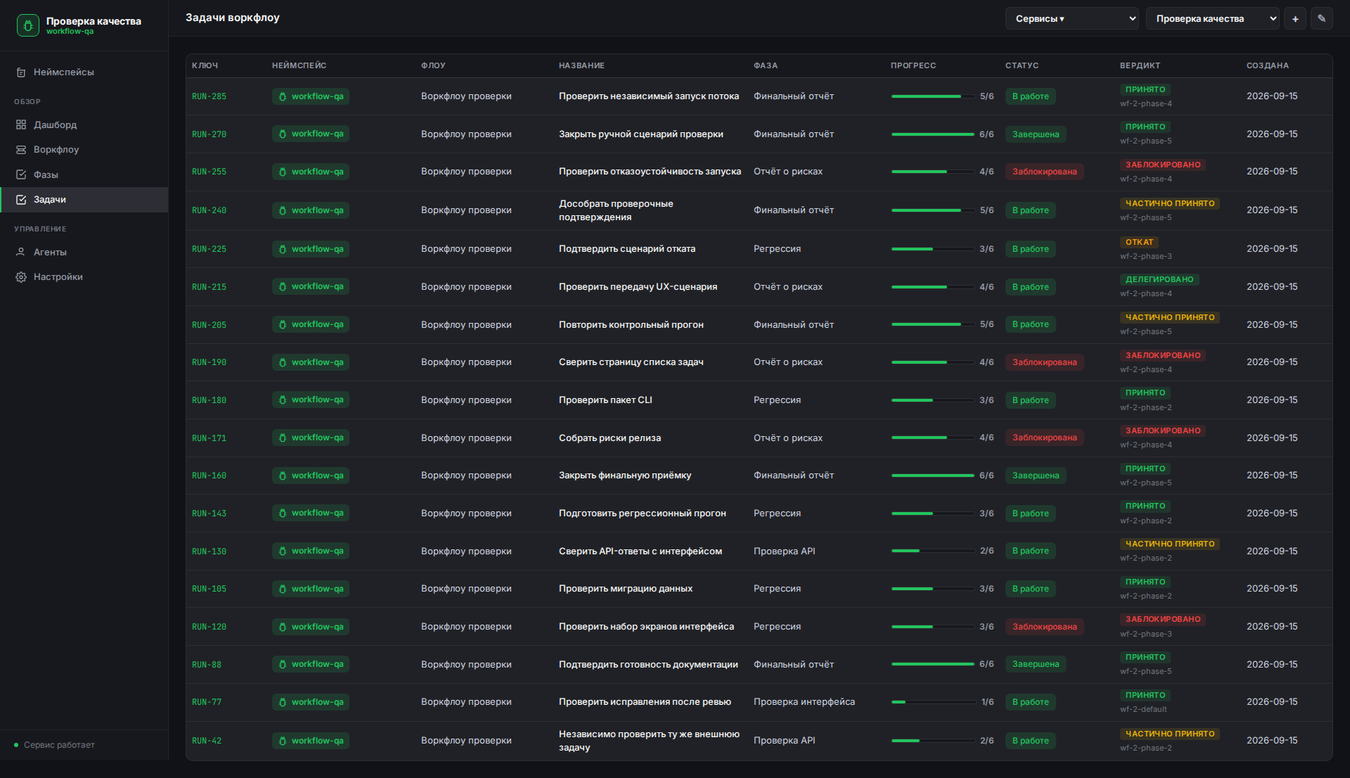
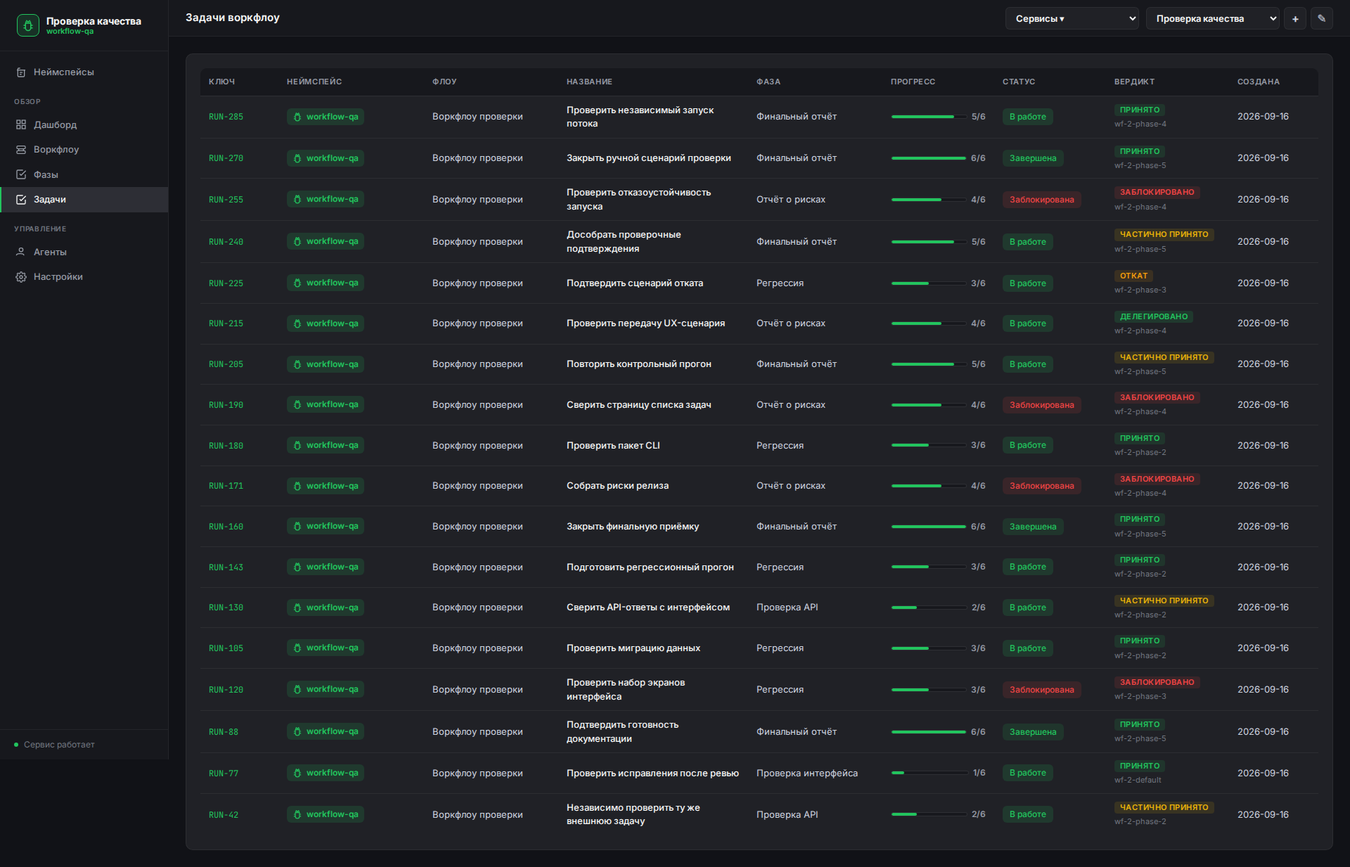
fix(ui): закрыть итоговые UX и runtime review findings
Исправлены Compose-env контракты runtime bridge, evaluator и каталога
сервисов. UI задач на мобильном уплотнён без скрытия данных; история
проверок сворачивает старые записи, фазы получили понятные touch controls,
инструкции без контекста показывают guidance state.

README/screenshots и архитектура синхронизированы; добавлены регрессии CLI
автосоздания, read-only task API/UI и Compose конфигурации.

diff --git a/project_workflow/interfaces/ui/templates/task_detail.html b/project_workflow/interfaces/ui/templates/task_detail.html
@@ -29,7 +29,10 @@
 .summary-progress span{display:block;height:100%;background:var(--accent);border-radius:inherit}
 .summary-progress span.done{background:var(--green)}
 
-.detail-section{margin-top:30px}
+.detail-jump-nav{display:flex;gap:8px;flex-wrap:wrap;margin:-8px 0 20px}
+.detail-jump-nav a{color:var(--text-secondary);background:var(--surface);border:1px solid var(--border);border-radius:999px;padding:6px 10px;font-size:12px;font-weight:600;text-decoration:none}
+.detail-jump-nav a:hover{color:var(--text);border-color:var(--accent);text-decoration:none}
+.detail-section{margin-top:30px;scroll-margin-top:76px}
 .phase-history{display:flex;flex-direction:column}
 .phase-history-step{display:grid;grid-template-columns:40px minmax(0,1fr);column-gap:14px;align-items:stretch;min-width:0}
 .phase-rail{position:relative;min-height:100%;display:flex;justify-content:center;align-items:center}
@@ -57,12 +60,19 @@
 
 .check-activity{display:flex;flex-direction:column}
 .activity-event{display:grid;grid-template-columns:30px minmax(0,1fr);column-gap:12px;align-items:stretch;min-width:0}
-.activity-rail{position:relative;display:flex;justify-content:center;padding-top:4px}
+.activity-rail{position:relative;grid-column:1;grid-row:1 / span 2;display:flex;justify-content:center;padding-top:4px}
 .activity-rail::after{content:"";position:absolute;top:16px;bottom:0;left:50%;width:1px;background:var(--border-strong)}
 .activity-event:last-child .activity-rail::after{display:none}
 .activity-node{position:relative;z-index:1;width:11px;height:11px;border-radius:50%;margin-top:1px;background:var(--text-dim);box-shadow:0 0 0 4px var(--bg)}
 .activity-node.pass{background:var(--green)}.activity-node.partial{background:var(--yellow)}.activity-node.blocked{background:var(--red)}.activity-node.rollback{background:var(--orange)}.activity-node.delegate{background:var(--accent)}
 .activity-content{padding:0 0 25px;min-width:0}
+.activity-event-summary{grid-column:2;grid-row:1;cursor:pointer;list-style:none}
+.activity-event-summary::-webkit-details-marker{display:none}
+.activity-event-summary::after{content:'Развернуть';margin-left:auto;color:var(--text-muted);font-size:11px;font-weight:600}
+.activity-event[open] .activity-event-summary::after{content:'Свернуть'}
+.activity-event-summary .activity-header{margin-bottom:0}
+.activity-event[open] .activity-event-summary{margin-bottom:10px}
+.activity-event[open] .activity-content{padding-top:0}
 .activity-header{display:flex;align-items:center;gap:8px;flex-wrap:wrap;margin-bottom:10px;min-height:18px}
 .activity-title{font-size:14px;font-weight:600;color:var(--text)}
 .activity-time{margin-left:auto;font-size:11px;color:var(--text-dim)}
@@ -91,7 +101,8 @@
 
 @media(max-width:800px){.summary-bar{grid-template-columns:1fr}.contract-grid{grid-template-columns:1fr}.parallel-grid,.contract-participants{grid-template-columns:1fr}}
 @media(max-width:480px){
-  .detail-header h1{font-size:21px}.detail-meta{display:grid;gap:7px}.phase-history-step{grid-template-columns:30px minmax(0,1fr);column-gap:8px}
+  .detail-header h1{font-size:21px}.detail-meta{display:grid;gap:7px}.detail-jump-nav{position:sticky;top:52px;z-index:4;margin:0 -4px 16px;padding:8px 4px;background:var(--bg);overflow-x:auto;flex-wrap:nowrap}.detail-jump-nav a{white-space:nowrap}
+  .phase-history-step{grid-template-columns:30px minmax(0,1fr);column-gap:8px}
   .phase-card{padding:11px}.phase-status{width:100%;margin-left:0}.activity-event{grid-template-columns:20px minmax(0,1fr);column-gap:7px}.activity-time{width:100%;margin-left:0}
 }
 {% endblock %}
@@ -144,7 +155,7 @@
   </div>
 </section>
 
-<div class="summary-bar">
+<div class="summary-bar" id="task-summary">
   <div class="summary-item {% if task.status == 'done' %}done{% endif %}">
     <div class="summary-label">{{ 'Завершённая фаза' if task.status == 'done' else 'Текущая фаза' }}</div>
     <div class="summary-value">{{ current_phase_name or '—' }}</div>
@@ -161,6 +172,12 @@
     <div class="summary-progress"><span class="{% if cycles_done >= cycles_total and cycles_total %}done{% endif %}" style="width:{{ (cycles_done / cycles_total * 100) if cycles_total else 0 }}%"></span></div>
   </div>
 </div>
+
+<nav class="detail-jump-nav" aria-label="Навигация по задаче">
+  <a href="#task-summary">Состояние</a>
+  <a href="#phase-history-title">Фазы</a>
+  <a href="#check-history-title">Проверки · {{ step_history | length }}</a>
+</nav>
 
 <section class="detail-section" aria-labelledby="phase-history-title">
   <h2 class="section-heading" id="phase-history-title">История фаз</h2>
@@ -198,16 +215,18 @@
   <h2 class="section-heading" id="check-history-title">История проверок</h2>
   <div class="check-activity">
     {% for run in step_history %}
-    <article class="activity-event" data-check-run="{{ loop.index }}">
+    <details class="activity-event" data-check-run="{{ loop.index }}"{% if loop.last %} open{% endif %}>
       <div class="activity-rail"><span class="activity-node {{ run.verdict }}" aria-hidden="true"></span></div>
       <div class="activity-content">
-        <header class="activity-header">
-          <span class="activity-title">Цикл {{ loop.index }}</span>
-          <span class="phase-code">{{ run.phase_code }}</span>
-          {% if run.phase_name and run.phase_name != run.phase_code %}<span class="activity-title">{{ run.phase_name }}</span>{% endif %}
-          <span class="verdict-chip verdict-{{ run.verdict }}">{{ run.verdict_label }}</span>
-          <time class="activity-time">{{ run.created_at[:16] if run.created_at else '—' }}</time>
-        </header>
+        <summary class="activity-event-summary">
+          <header class="activity-header">
+            <span class="activity-title">Цикл {{ loop.index }}</span>
+            <span class="phase-code">{{ run.phase_code }}</span>
+            {% if run.phase_name and run.phase_name != run.phase_code %}<span class="activity-title">{{ run.phase_name }}</span>{% endif %}
+            <span class="verdict-chip verdict-{{ run.verdict }}">{{ run.verdict_label }}</span>
+            <time class="activity-time">{{ run.created_at[:16] if run.created_at else '—' }}</time>
+          </header>
+        </summary>
 
         {% if run.worker_report %}<div class="dialog-part"><div class="dialog-label">Отчёт исполнителя</div><div class="report-text">{{ run.worker_report }}</div></div>{% endif %}
 
@@ -234,7 +253,7 @@
         <div class="dialog-part"><div class="terminal-card">Воркфлоу завершён</div></div>
         {% endif %}
       </div>
-    </article>
+    </details>
     {% else %}<div class="empty-state">Проверок пока нет.</div>{% endfor %}
   </div>
 </section>

diff --git a/project_workflow/interfaces/ui/templates/tasks.html b/project_workflow/interfaces/ui/templates/tasks.html
@@ -36,12 +36,18 @@
 .progress-inline .bar-fill{display:block;height:100%;background:var(--accent);border-radius:inherit;min-width:2px;transition:width .3s}
 .progress-inline .bar-fill.done{background:var(--green)}
 .progress-inline .bar-fill.zero{background:transparent;min-width:0}
-.task-card{background:var(--surface);border:1px solid var(--border);border-radius:8px;padding:14px 16px;margin-top:12px}
-.task-card .row{display:flex;justify-content:space-between;align-items:center;margin-bottom:6px;gap:8px;flex-wrap:wrap}
+.task-card{background:var(--surface);border:1px solid var(--border);border-radius:8px;padding:12px 14px;margin-top:8px}
+.task-card .row{display:flex;justify-content:space-between;align-items:center;margin-bottom:5px;gap:8px;flex-wrap:wrap}
 .task-card .row:last-child{margin-bottom:0}
 .task-card .task-key{font-family:'JetBrains Mono',monospace;font-size:12px;color:var(--accent)}
 .task-card .label{font-size:11px;color:var(--text-dim);text-transform:uppercase;letter-spacing:0.05em}
 .task-card .value{font-size:13px;color:var(--text-secondary);font-weight:500}
+.task-card-title{margin:7px 0 9px;font-size:14px;color:var(--text);font-weight:600;line-height:1.35}
+.task-card-context{display:grid;grid-template-columns:repeat(2,minmax(0,1fr));gap:6px 12px;border-top:1px solid var(--border);padding-top:8px}
+.task-card-context-item{min-width:0;font-size:12px;line-height:1.35;color:var(--text-secondary);overflow-wrap:anywhere}
+.task-card-context-item strong{color:var(--text-muted);font-weight:600}
+.task-card-context-item.context-wide{grid-column:1 / -1}
+.task-card-context-item.context-wide .context-value{color:var(--text);font-weight:500}
 .verdict-badge{display:inline-flex;align-items:center;gap:4px;padding:2px 8px;border-radius:4px;font-size:11px;font-weight:600;text-transform:uppercase;letter-spacing:0.04em;line-height:1.2;white-space:normal;overflow-wrap:normal}
 .verdict-cell{display:flex;flex-direction:column;align-items:flex-start;gap:3px;min-width:0}
 .verdict-pass{background:var(--green-soft);color:var(--green)}
@@ -139,16 +145,14 @@
       {% endif %}
     </div>
     {% if t.title and t.title != t.task_key %}
-    <div class="row" style="margin-bottom:10px">
-      <span class="task-title" style="font-size:14px">{{ t.title }}</span>
-    </div>
+    <div class="task-card-title">{{ t.title }}</div>
     {% endif %}
-    <div class="row task-card-meta">
-      <div><span class="label">Неймспейс</span><div class="value">{{ t.namespace_cli_command or t.namespace_name }}</div></div>
-      <div><span class="label">Флоу</span><div class="value">{{ t.workflow_name or '—' }}</div></div>
-      <div><span class="label">Фаза</span><div class="value">{{ t.current_phase_name or '—' }}</div></div>
-      <div><span class="label">Прогресс</span><div class="value">{{ t.completed }}/{{ t.total_phases }}</div></div>
-      <div><span class="label">Создана</span><div class="value">{{ t.created_at[:10] if t.created_at else '—' }}</div></div>
+    <div class="task-card-context">
+      <div class="task-card-context-item"><strong>Неймспейс:</strong> {{ t.namespace_cli_command or t.namespace_name }}</div>
+      <div class="task-card-context-item"><strong>Флоу:</strong> {{ t.workflow_name or '—' }}</div>
+      <div class="task-card-context-item"><strong>Фаза:</strong> {{ t.current_phase_name or '—' }}</div>
+      <div class="task-card-context-item"><strong>Прогресс:</strong> {{ t.completed }}/{{ t.total_phases }}</div>
+      <div class="task-card-context-item"><strong>Создана:</strong> {{ t.created_at[:10] if t.created_at else '—' }}</div>
     </div>
   </div>
   {% else %}

diff --git a/project_workflow/interfaces/ui/templates/phases.html b/project_workflow/interfaces/ui/templates/phases.html
@@ -24,12 +24,18 @@
 .timeline-card .timeline-name{padding-right:130px}
 .timeline-card:hover{transform:none}
 .phase-card-actions{position:absolute;right:12px;top:12px;display:flex;gap:6px;z-index:2}
-.phase-card-actions button{width:30px;height:28px;border-radius:6px;border:1px solid var(--border-strong);background:var(--panel);color:var(--text-muted);cursor:pointer;display:flex;align-items:center;justify-content:center;font-size:13px}
+.phase-card-actions button{min-width:36px;height:36px;border-radius:6px;border:1px solid var(--border-strong);background:var(--panel);color:var(--text-muted);cursor:pointer;display:flex;align-items:center;justify-content:center;font-size:12px;font-weight:600}
 .phase-card-actions button:hover:not(:disabled){color:var(--text);border-color:var(--accent);background:var(--surface-hover)}
 .phase-card-actions .phase-delete-btn:hover:not(:disabled){color:var(--red);border-color:var(--red)}
 .phase-card-actions button:disabled{opacity:.3;cursor:not-allowed}
 .execution-row{margin-top:10px;min-height:0}
-.execution-toggle{width:auto!important;padding:0 9px!important;font-size:11px!important}
+.execution-toggle{width:auto!important;padding:0 10px!important;font-size:11px!important}
+.phase-card-actions .move-up-btn,.phase-card-actions .move-down-btn{font-size:0}
+.phase-card-actions .move-up-btn::after{content:'Выше';font-size:11px}
+.phase-card-actions .move-down-btn::after{content:'Ниже';font-size:11px}
+.phase-card-actions .phase-delete-btn{font-size:0}
+.phase-card-actions .phase-delete-btn::after{content:'Удалить';font-size:11px}
+@media(max-width:760px){.phase-card-actions{gap:8px}.phase-card-actions button{min-width:44px;height:44px}.execution-toggle{padding:0 12px!important}}
 .timeline-parallel-group{display:block;border-color:rgba(245,158,11,.58);background:rgba(255,255,255,.012);box-shadow:none;padding:14px}
 .timeline-parallel-header{display:flex;align-items:center;justify-content:space-between;gap:10px;margin-bottom:12px}
 .timeline-parallel-label{border-color:var(--border-strong);background:var(--panel);color:var(--text-muted)}
@@ -62,7 +68,7 @@
     <div class="phase-card-actions" aria-label="Действия фазы">
       <button type="button" class="move-up-btn" onclick="movePhase(this,-1)" title="Поднять выше" aria-label="Поднять фазу выше">↑</button>
       <button type="button" class="move-down-btn" onclick="movePhase(this,1)" title="Опустить ниже" aria-label="Опустить фазу ниже">↓</button>
-      <button type="button" class="execution-toggle" onclick="togglePhaseType(this)" title="Изменить режим выполнения" aria-label="Изменить режим выполнения">{{ 'P' if p.execution_type == 'parallel' else 'S' }}</button>
+      <button type="button" class="execution-toggle" onclick="togglePhaseType(this)" title="Изменить режим выполнения" aria-label="Изменить режим выполнения">{{ 'Параллельно' if p.execution_type == 'parallel' else 'Последовательно' }}</button>
       <button type="button" class="phase-delete-btn" onclick="deletePhase(this)" title="Удалить фазу" aria-label="Удалить фазу"{% if phase_count <= 1 %} disabled{% endif %}>×</button>
     </div>
   </div>

diff --git a/tests/test_docs_quality.py b/tests/test_docs_quality.py
@@ -5,8 +5,8 @@ from pathlib import Path
 
 ROOT = Path(__file__).resolve().parents[1]
 SCREENSHOTS = {
-    "dashboard.png": (1900, 1700),
-    "dashboard-qa.png": (1900, 1700),
+    "dashboard.png": (1900, 1500),
+    "dashboard-qa.png": (1900, 1500),
     "namespaces.png": (1900, 1000),
     "namespace-new.png": (1900, 1000),
     "phases-qa.png": (1900, 1200),
@@ -16,10 +16,10 @@ SCREENSHOTS = {
     "instructions.png": (1900, 1000),
     "agents.png": (1900, 1000),
     "phases.png": (1900, 3000),
-    "task-detail-dev.png": (1900, 3500),
-    "task-detail-qa.png": (1900, 2200),
+    "task-detail-dev.png": (1900, 2500),
+    "task-detail-qa.png": (1900, 1500),
     "settings.png": (1900, 1000),
-    "mobile-dashboard.png": (360, 3000),
+    "mobile-dashboard.png": (360, 2400),
 }
 
 
@@ -86,6 +86,24 @@ def test_readme_cli_examples_use_configured_wrapper_commands() -> None:
     assert "project-workflow history --task" not in readme
 
 
+def test_compose_and_env_example_forward_runtime_settings() -> None:
+    compose = (ROOT / "docker-compose.yml").read_text(encoding="utf-8")
+    env_example = (ROOT / ".env.example").read_text(encoding="utf-8")
+
+    assert "OPENAI_MODEL: ${OPENAI_MODEL:-app-test}" in compose
+    assert "PLATFORM_SERVICES_URL: ${PLATFORM_SERVICES_URL:-http://localhost:7771/api/v1/runtime/services}" in compose
+    assert "PROJECT_WORKFLOW_RUNTIME_TOKENS_JSON: ${PROJECT_WORKFLOW_RUNTIME_TOKENS_JSON:-}" in compose
+    assert "PLATFORM_SERVICES_URL=http://localhost:7771/api/v1/runtime/services" in env_example
+    assert "PROJECT_WORKFLOW_RUNTIME_TOKENS_JSON=" in env_example
+
+
+def test_readme_route_table_lists_read_only_task_and_instruction_pages() -> None:
+    readme = (ROOT / "README.md").read_text(encoding="utf-8")
+
+    assert "`/task/{task_key}` (только наблюдение)" in readme
+    assert "`/instructions?phase_id={phase_id}`" in readme
+
+
 def test_quality_gate_ui_smoke_matches_settings_screenshot() -> None:
     quality_gate = (ROOT / "docs" / "quality-gate.md").read_text(encoding="utf-8")
 
@@ -144,6 +162,10 @@ def test_screenshot_capture_script_checks_full_smoke_data() -> None:
         "RUN-285",
     ):
         assert task_key in source
+    assert "assertReadOnlyTaskUi" in source
+    assert "#taskStartForm" in source
+    assert "#taskRuntimeStep" in source
+    assert "/api/tasks/step" in source
     assert "fullPage: true" in source
     assert "assertFullPageScreenshotSize" in source
     assert "scrollHeight" in source

diff --git a/tests/test_ui.py b/tests/test_ui.py
@@ -640,8 +640,12 @@ class TestPhasesPage:
         # Reordering/deletion lives on cards; adding lives between complete blocks.
         assert 'class="phase-card-actions"' in response.text
         assert 'class="move-up-btn"' in response.text
-        assert 'class="move-down-btn"' in response.text
-        assert response.text.index('class="phase-card-actions"') < response.text.index('class="phase-add-btn"')
+        assert "Параллельно" in response.text
+        assert "Последовательно" in response.text
+        assert "min-width:44px;height:44px" in response.text
+        assert "content:'Выше'" in response.text
+        assert "content:'Ниже'" in response.text
+        assert "content:'Удалить'" in response.text
 
     def test_phases_add_button_breaks_the_vertical_connector_line(self):
         response = client.get("/phases")
@@ -1662,6 +1666,9 @@ class TestTasksPage:
             "align-items:start}"
             in response.text
         )
+        assert 'class="task-card-context"' in (TEMPLATES_DIR / "tasks.html").read_text(encoding="utf-8")
+        assert 'class="task-card-context-item"' in (TEMPLATES_DIR / "tasks.html").read_text(encoding="utf-8")
+        assert "<details class=\"task-card-more\">" not in (TEMPLATES_DIR / "tasks.html").read_text(encoding="utf-8")
         assert "@container tasks (max-width:1080px)" in response.text
         assert "@media(max-width:1200px)" not in response.text
         assert 'style="padding:0;overflow-x:auto"' not in response.text

diff --git a/tests/test_cli_manual_workflow.py b/tests/test_cli_manual_workflow.py
@@ -120,6 +120,34 @@ def manual_env(tmp_path, monkeypatch):
 
 
 class TestManualWorkflowEndToEnd:
+    def test_first_step_creates_task_and_history_is_empty(self, manual_env):
+        runner = _runner(manual_env)
+
+        result = runner.invoke(cli, ["--json", "step", "--task", "MANUAL-8"])
+
+        assert result.exit_code == 0, result.output
+        data = json.loads(result.output)
+        assert data["ok"] is True
+        assert data["task_key"] == "MANUAL-8"
+        assert data["phase_code"] == "manual.intake"
+
+        history = runner.invoke(cli, ["--json", "history", "--task", "MANUAL-8"])
+        assert history.exit_code == 0, history.output
+        assert json.loads(history.output) == {
+            "ok": True,
+            "task_key": "MANUAL-8",
+            "count": 0,
+            "records": [],
+        }
+
+        with SAUnitOfWork() as uow:
+            task = uow.tasks.get_by_key("MANUAL-8", project_id=manual_env.project_id)
+            assert task is not None
+            phase = uow.phases.get_by_id(task.current_phase_id)
+            assert phase is not None
+            assert phase.code == "manual.intake"
+            assert task.status == "active"
+
     def test_sync_phase_passes_and_advances(self, manual_env, supervisor_llm):
         runner = _runner(manual_env)
         supervisor_llm("PASS")

diff --git a/tests/test_runtime_cleanup.py b/tests/test_runtime_cleanup.py
@@ -84,14 +84,15 @@ def test_default_bootstrap_does_not_require_task_prefixes(tmp_path):
     assert all(project["code"] != "TASK" for project in uow.get_projects())
 
 
-def test_compose_pins_app_test_evaluator_configuration_to_api():
+def test_compose_forwards_configurable_evaluator_and_runtime_configuration_to_api():
     compose = COMPOSE_PATH.read_text(encoding="utf-8")
     assert "OPENAI_BASE_URL: ${OPENAI_BASE_URL:-http://192.168.10.1:4000/v1}" in compose
-    assert "OPENAI_MODEL: app-test" in compose
-    assert "OPENAI_MODEL: ${OPENAI_MODEL" not in compose
+    assert "OPENAI_MODEL: ${OPENAI_MODEL:-app-test}" in compose
     assert "OPENAI_MAX_TOKENS: ${OPENAI_MAX_TOKENS:-4000}" in compose
     assert "OPENAI_API_KEY: ${OPENAI_API_KEY:-}" in compose
     assert "OPENAI_REASONING_EFFORT: ${OPENAI_REASONING_EFFORT:-none}" in compose
+    assert "PLATFORM_SERVICES_URL: ${PLATFORM_SERVICES_URL:-http://localhost:7771/api/v1/runtime/services}" in compose
+    assert "PROJECT_WORKFLOW_RUNTIME_TOKENS_JSON: ${PROJECT_WORKFLOW_RUNTIME_TOKENS_JSON:-}" in compose
 
 
 def test_compose_publishes_database_and_api_on_loopback_only():

diff --git a/tests/test_ui_api.py b/tests/test_ui_api.py
@@ -176,6 +176,18 @@ class TestIndex:
         assert "Создать и открыть" not in resp.text
         assert "taskStartForm" not in resp.text
 
+    @pytest.mark.parametrize("method", ["get", "post", "put", "patch", "delete"])
+    def test_task_mutation_step_route_is_not_registered(self, client, method):
+        request_kwargs = {"json": {"task": "RUN-905"}} if method in {"post", "put", "patch"} else {}
+        response = getattr(client, method)("/api/tasks/step", **request_kwargs)
+
+        expected_status = 405 if method == "delete" else 404
+        assert response.status_code == expected_status
+        assert response.json() == {
+            "ok": False,
+            "error": "Метод не поддерживается" if method == "delete" else "Ресурс не найден",
+        }
+
     def test_header_has_namespace_selector_and_actions(self, client):
         resp = client.get("/")
         assert resp.status_code == 200

diff --git a/project_workflow/interfaces/ui/routes/pages.py b/project_workflow/interfaces/ui/routes/pages.py
@@ -691,14 +691,14 @@ async def instructions_page(request: Request) -> HTMLResponse:
     if phase_id is None:
         context.update(
             {
-                "title": "Фаза не выбрана",
-                "message": "Откройте инструкции из карточки нужной фазы.",
-                "status_code": 400,
+                "title": "Выберите фазу",
+                "message": "Инструкции открываются из карточки нужной фазы.",
                 "back_url": "/phases",
                 "back_label": "К фазам",
+                "empty_state": True,
             }
         )
-        return _template_response(request=request, name="error.html", status_code=400, context=context)
+        return _template_response(request=request, name="error.html", context=context)
     phase = _load_phase_detail(phase_id)
     if not phase:
         context.update(

diff --git a/tests/test_ui_instructions.py b/tests/test_ui_instructions.py
@@ -262,9 +262,12 @@ class TestInstructionsApi:
 
 
 class TestInstructionsPage:
-    def test_instructions_page_requires_phase_id(self):
+    def test_instructions_page_without_phase_shows_guidance(self):
         response = client.get("/instructions")
-        assert response.status_code == 400
+        assert response.status_code == 200
+        assert "Выберите фазу" in response.text
+        assert "Инструкции открываются из карточки нужной фазы" in response.text
+        assert "HTTP 400" not in response.text
 
     def test_instructions_page_renders_existing_phase(self):
         phase_id = _seed_phase_id()

diff --git a/docs/architecture.md b/docs/architecture.md
@@ -15,6 +15,11 @@
   выполняются только CLI `step`. Выбор в верхней панели полностью задаёт
   связанный workflow, задачи, название, простую иконку, цвет темы,
   и CLI-команду.
+- **Внешний runtime bridge** обслуживает изолированные контейнеры исполнителей
+  через `POST /internal/runtime/step` и `GET /internal/runtime/history`. Он
+  аутентифицируется role token из `PROJECT_WORKFLOW_RUNTIME_TOKENS_JSON`, не
+  доступен как browser UI API и должен публиковаться только во внутреннюю сеть
+  или на host loopback.
 - **SupervisorEngine** маршрутизирует задачу, строит phase contract, вызывает
   обязательный OpenAI-compatible evaluator и сохраняет результат атомарно.
 - **PostgreSQL** - единственный runtime data store. SQLite допустим только в

diff --git a/README.md b/README.md
@@ -176,8 +176,8 @@ At startup the app verifies database connectivity; the Compose `migrate` service
 |---|---|
 | Dashboard | `/` |
 | Namespaces | `/namespaces`, `/namespaces/new` |
-| Tasks | `/tasks`, task detail (только наблюдение) |
-| Phases | `/phases`, phase detail |
+| Tasks | `/tasks`, `/task/{task_key}` (только наблюдение) |
+| Phases | `/phases`, `/phase/{phase_id}`, `/instructions?phase_id={phase_id}` |
 | Workflows | `/workflows` |
 | Agents | `/agents` |
 | Settings | `/settings` |
